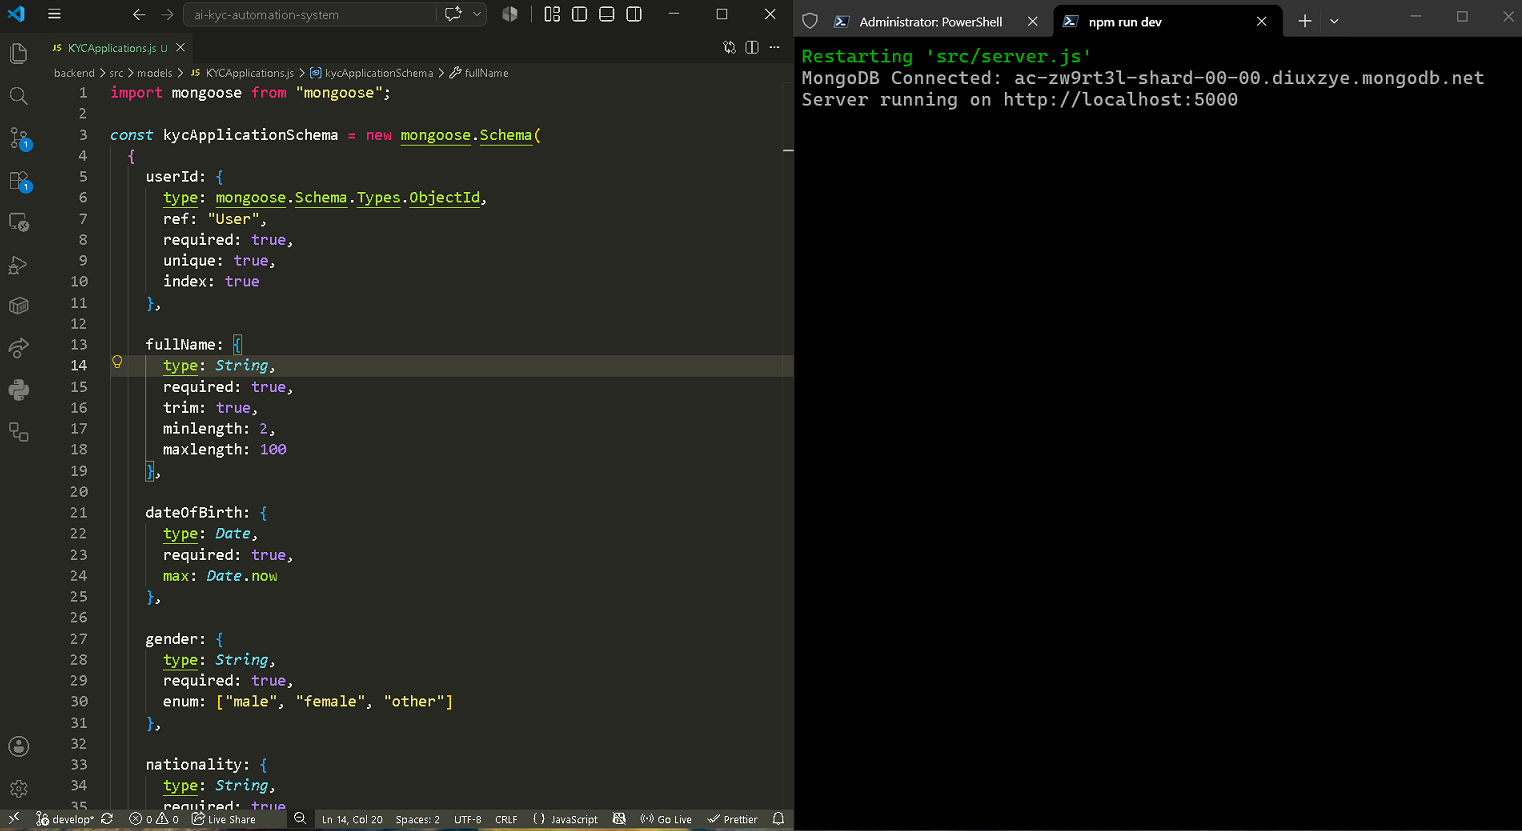
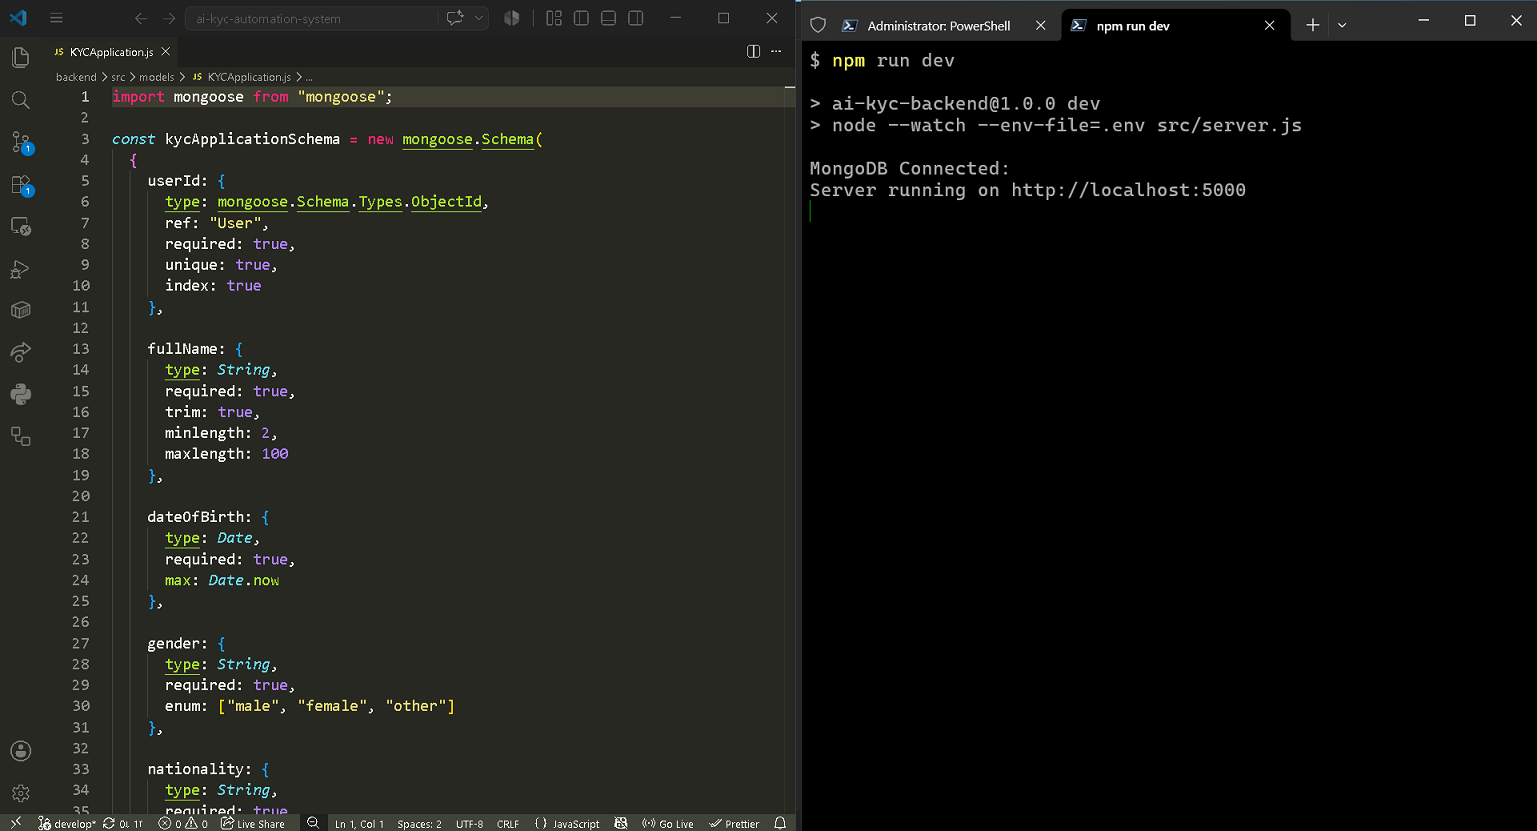
Modified MongoDB connection message and updated relevant screenshot

diff --git a/backend/src/config/database.js b/backend/src/config/database.js
@@ -4,7 +4,8 @@ import mongoose from "mongoose";
 const connectDB = async () => {
   try {
     const conn = await mongoose.connect(process.env.MONGODB_URI);
-    console.log(`MongoDB Connected: ${conn.connection.host}`);
+    // console.log(`MongoDB Connected: ${conn.connection.host}`);
+    console.log("MongoDB Connected:");
   } catch (error) {
     console.error(error.message);
     process.exit(1);
